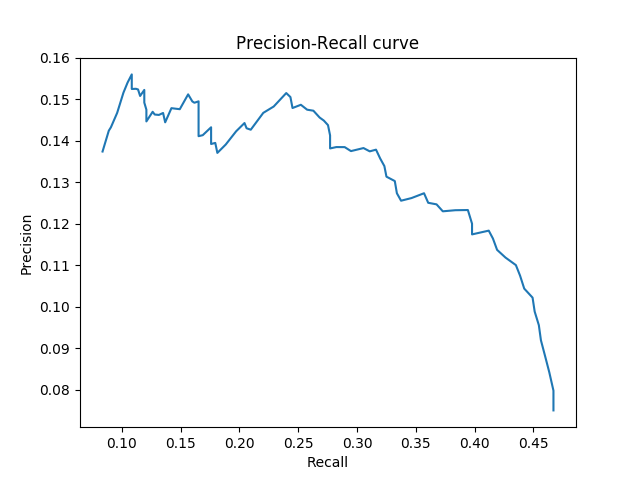
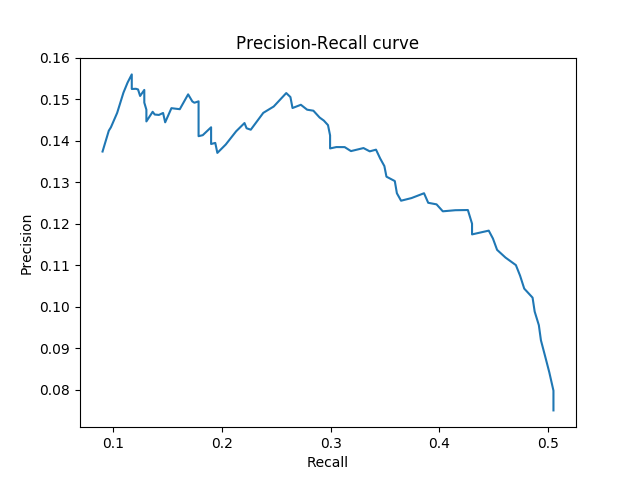
...

diff --git a/src/solution.py b/src/solution.py
@@ -15,20 +15,22 @@ print(f"Done. Found {len(prots)} possible genes.")
 Ps = list()
 Rs = list()
 
-print("L\t| P\tR\t| F1\t | #")
-print("---------------------------------------")
+print("L\t| TP/N\tFP/N\t| P\tR\t| F1\t | N")
+print("--------------------------------------------------------")
 for L in range(50, 500, 5):
     detected = set(filter(lambda x: (x[2] - x[1] + 1)/3 > L, prots))
 
-    nTP = len(genes & detected)
-    P = nTP / len(detected)
-    R = nTP / len(genes)
+    N = len(detected)
+    TP = len(genes & detected)
+    FP = N - TP
+    P = TP / N
+    R = TP / len(genes)
     F1 = 2*P*R/(P+R)
 
     Ps.append(P)
     Rs.append(R)
 
-    print(f"{L}\t| {P:.2f}\t{R:.2f}\t| {F1:.2f}\t | {len(detected)}")
+    print(f"{L}\t| {TP/N:.2f}\t{FP/N:.2f}\t| {P:.2f}\t{R:.2f}\t| {F1:.2f}\t | {N}")
 
 import matplotlib.pyplot as plt
 

diff --git a/src/helpers.py b/src/helpers.py
@@ -16,13 +16,13 @@ def getGenes():
 
     with Entrez.efetch(db="nucleotide", id=__ID, rettype="gb") as h:
         gb = SeqIO.read(h, "gb")
-        genes = list(filter(lambda f: f.type == "gene", gb.features))
+        genes = list(filter(lambda f: f.type == "CDS", gb.features))
 
         lengths = list(map(lambda f: (f.location.nofuzzy_end - f.location.nofuzzy_start)/3, genes))
 
-        print(f"Shortest length: {min(lengths):.1f}")
-        print(f"Longest length:  {max(lengths):.1f}")
-        print(f"Median length:   {median(lengths):.1f}")
+        print(f"Shortest length: {min(lengths)}")
+        print(f"Longest length:  {max(lengths)}")
+        print(f"Median length:   {median(lengths)}")
 
         sst = set(map(lambda f: (f.strand, f.location.nofuzzy_start+1, f.location.nofuzzy_end), genes))
         return sst

diff --git a/README.md b/README.md
@@ -6,25 +6,25 @@ Implement a gene-finding algorithm that examines open reading frames and finds s
 
 **What is the size of Mycoplasma genitalium genome?**
 
-580076 bp
+From the NCBI database: 580076 bp
 
 **How many genes does it include?**
 
-563
+From the NCBI database: 563
 
 **What is the length of the smallest and the longest gene (in codons)? What is the median length of the gene (in codons)?**
 
 |                 | Length [codons] |
 |-----------------|---------------- |
-|Shortest length  | 24.66           |
+|Shortest length  | 35              |
 |Longest length   | 1806            |
-|Median length    | 275             |
+|Median length    | 286             |
 
 **What is the recall/precision of your gene finding procedure at L=50 and L=125 codons?**
 
 | Length [codons]   | Precision | Recall |
 |-------------------|-----------|--------|
-| 50                | 0.08      | 0.47   |
-| 125               | 0.12      | 0.40   |
+| 50                | 0.08      | 0.50   |
+| 125               | 0.12      | 0.43   |
 
 ![PR curve](PR-curve.png)
